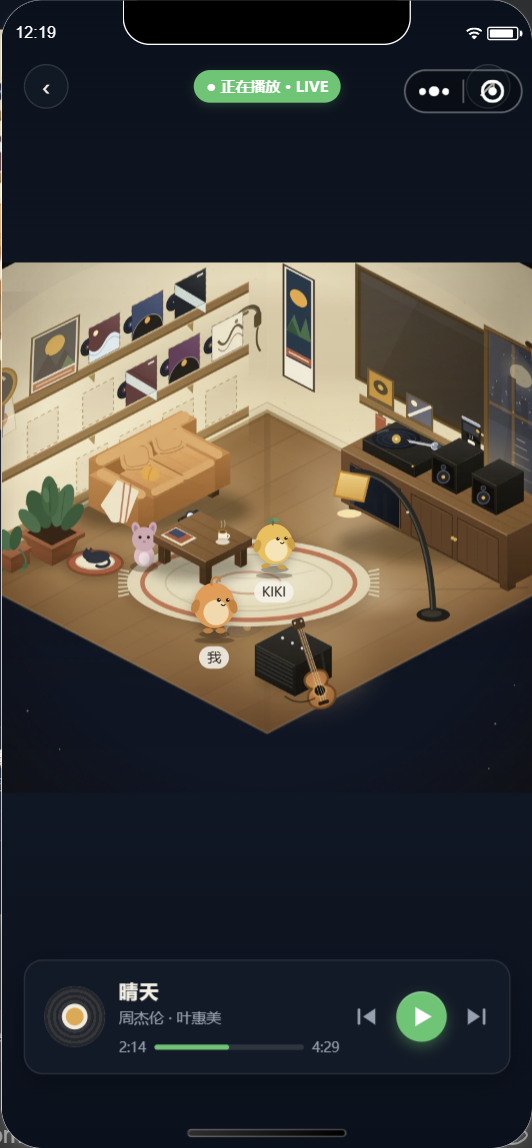
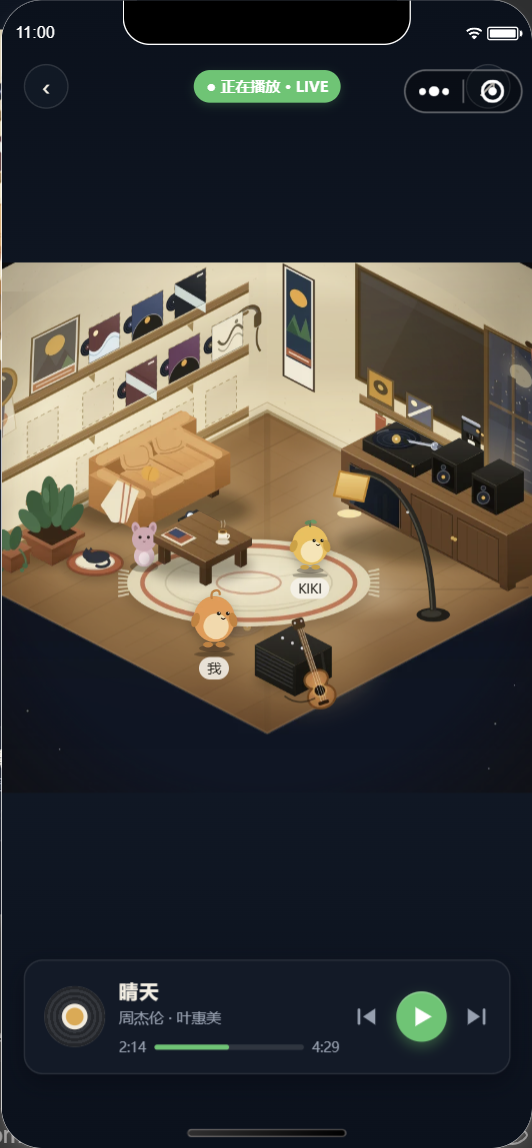
phase-2: home on room-scene component (hero 52vh, shared master scene) + component stage-relative char sizing + ui-reference/home.png

Changed region(s): [[0.4812, 0.4573, 0.6316, 0.5488], [0.3609, 0.4878, 0.4511, 0.6098], [0.0602, 0.0, 0.0902, 0.0305]]

diff --git a/tools/make-home-reference.js b/tools/make-home-reference.js
@@ -1,0 +1,124 @@
+// 生成 reference-assets/ui-reference/home.png:Home 视觉验收基准(设计目标合成图)
+// 构成:深夜壳 + masthead + 今晚文案 + Room Master hero(~52%) + 悬浮 pill + 任务卡 + 播放器 + CTA + tab
+// 运行: node tools/make-home-reference.js
+const sharp = require('sharp');
+const path = require('path');
+
+const ROOT = path.join(__dirname, '..');
+const W = 780;
+const H = 1688;
+const S = W / 750; // rpx → px(以 750rpx 设计宽)
+
+const C = {
+  night950: '#08111D', night900: '#0E1A29', night850: '#162537',
+  nightText: '#F4EFE4', nightSub: '#93A0B1',
+  paper100: '#F7F1E4', ink900: '#26221A', ink500: '#8A8578',
+  green: '#2BC96B', greenDeep: '#1FA75A', amber: '#E9A942'
+};
+
+async function textLayer(svg) {
+  return sharp(Buffer.from(`<svg xmlns="http://www.w3.org/2000/svg" width="${W}" height="${H}">${svg}</svg>`)).png().toBuffer();
+}
+
+(async () => {
+  const heroSize = Math.round(H * 0.56); // 舞台 56vh,容器 52vh 居中裁切
+  const heroY = Math.round(H * 0.205);
+  const heroVisH = Math.round(H * 0.52);
+  const hero = await sharp(path.join(ROOT, 'visual-validation/rendered/room-master.png'))
+    .resize(heroSize, heroSize)
+    .extract({
+      left: Math.round((heroSize - W) / 2),
+      top: Math.round((heroSize - heroVisH) / 2),
+      width: W,
+      height: heroVisH
+    }).png().toBuffer();
+
+  const ui = `
+  <defs>
+    <linearGradient id="heroFade" x2="0" y2="1"><stop stop-color="rgba(8,17,29,0)" offset=".82"/><stop offset="1" stop-color="rgba(8,17,29,.9)"/></linearGradient>
+    <filter id="soft"><feGaussianBlur stdDeviation="3"/></filter>
+  </defs>
+
+  <!-- masthead -->
+  <text x="40" y="78" font-family="Microsoft YaHei, Verdana, sans-serif" font-size="20" font-weight="700" letter-spacing="6" fill="${C.nightSub}">ROOMIE</text>
+  <text x="40" y="104" font-family="Microsoft YaHei, Verdana, sans-serif" font-size="17" fill="${C.nightSub}">深夜放映室 · ROOM 0731</text>
+  <circle cx="${W - 56}" cy="82" r="26" fill="${C.night850}"/>
+  <text x="${W - 56}" y="92" font-family="Microsoft YaHei, Verdana, sans-serif" font-size="26" font-weight="700" fill="${C.amber}" text-anchor="middle">M</text>
+
+  <!-- 今晚文案(克制,不抢房间) -->
+  <text x="40" y="${heroY - 78}" font-family="Microsoft YaHei, Verdana, sans-serif" font-size="22" fill="${C.nightSub}">今晚,</text>
+  <text x="40" y="${heroY - 34}" font-family="Microsoft YaHei, Verdana, sans-serif" font-size="38" font-weight="700" fill="${C.nightText}"><tspan fill="${C.amber}">MOMO</tspan> 想放一首歌</text>
+
+  <!-- hero 底部渐隐,与夜色衔接 -->
+  <rect x="0" y="${heroY}" width="${W}" height="${Math.round(H * 0.52)}" fill="url(#heroFade)"/>
+
+  <!-- 悬浮 pill:左上 LIVE / 右上 氛围值 -->
+  <g>
+    <rect x="40" y="${heroY + 40}" width="252" height="46" rx="23" fill="rgba(22,37,55,.82)"/>
+    <circle cx="66" cy="${heroY + 63}" r="7" fill="${C.green}"/>
+    <text x="84" y="${heroY + 70}" font-family="Microsoft YaHei, Verdana, sans-serif" font-size="20" fill="${C.nightText}">放映中 · 2 位 roomie</text>
+    <rect x="${W - 40 - 150}" y="${heroY + 40}" width="150" height="46" rx="23" fill="${C.green}"/>
+    <text x="${W - 40 - 75}" y="${heroY + 70}" font-family="Microsoft YaHei, Verdana, sans-serif" font-size="20" font-weight="700" fill="#FFFFFF" text-anchor="middle">+12 氛围值</text>
+  </g>
+
+  <!-- 左下角色 chip -->
+  <g>
+    <rect x="52" y="${heroY + Math.round(H * 0.52) - 92}" width="240" height="56" rx="28" fill="${C.paper100}"/>
+    <circle cx="86" cy="${heroY + Math.round(H * 0.52) - 64}" r="16" fill="${C.amber}"/>
+    <text x="86" y="${heroY + Math.round(H * 0.52) - 58}" font-family="Microsoft YaHei, Verdana, sans-serif" font-size="18" font-weight="700" fill="#FFF" text-anchor="middle">M</text>
+    <text x="112" y="${heroY + Math.round(H * 0.52) - 57}" font-family="Microsoft YaHei, Verdana, sans-serif" font-size="20" font-weight="600" fill="${C.ink900}">MOMO 走近唱机</text>
+  </g>
+
+  <!-- 任务卡(叠 hero 下缘) -->
+  <g>
+    <rect x="40" y="${Math.round(H * 0.705)}" width="${W - 80}" height="118" rx="26" fill="${C.paper100}"/>
+    <circle cx="96" cy="${Math.round(H * 0.705) + 59}" r="27" fill="${C.green}"/>
+    <text x="96" y="${Math.round(H * 0.705) + 72}" font-family="Microsoft YaHei, Verdana, sans-serif" font-size="40" font-weight="300" fill="#FFF" text-anchor="middle">+</text>
+    <text x="140" y="${Math.round(H * 0.705) + 48}" font-family="Microsoft YaHei, Verdana, sans-serif" font-size="17" fill="${C.ink500}">今晚的放映任务</text>
+    <text x="140" y="${Math.round(H * 0.705) + 84}" font-family="Microsoft YaHei, Verdana, sans-serif" font-size="24" font-weight="700" fill="${C.ink900}">让 KIKI 找到唱片墙</text>
+    <rect x="${W - 40 - 128}" y="${Math.round(H * 0.705) + 38}" width="108" height="44" rx="22" fill="#FBF0D8"/>
+    <text x="${W - 40 - 74}" y="${Math.round(H * 0.705) + 67}" font-family="Microsoft YaHei, Verdana, sans-serif" font-size="19" font-weight="700" fill="${C.amber}" text-anchor="middle">+80 XP</text>
+  </g>
+
+  <!-- mini player -->
+  <g>
+    <rect x="40" y="${Math.round(H * 0.795)}" width="${W - 80}" height="104" rx="24" fill="${C.night850}"/>
+    <circle cx="92" cy="${Math.round(H * 0.795) + 52}" r="34" fill="#23262B"/>
+    <circle cx="92" cy="${Math.round(H * 0.795) + 52}" r="12" fill="${C.amber}"/>
+    <text x="146" y="${Math.round(H * 0.795) + 46}" font-family="Microsoft YaHei, Verdana, sans-serif" font-size="22" font-weight="700" fill="${C.nightText}">晴天</text>
+    <text x="146" y="${Math.round(H * 0.795) + 76}" font-family="Microsoft YaHei, Verdana, sans-serif" font-size="17" fill="${C.nightSub}">周杰伦 · 叶惠美</text>
+    <circle cx="${W - 100}" cy="${Math.round(H * 0.795) + 52}" r="30" fill="${C.green}"/>
+    <path d="M${W - 110} ${Math.round(H * 0.795) + 38} L${W - 110} ${Math.round(H * 0.795) + 66} L${W - 88} ${Math.round(H * 0.795) + 52}Z" fill="#FFF"/>
+  </g>
+
+  <!-- CTA(文字单独一层渲染,见下方 ctaText) -->
+  <rect x="40" y="${Math.round(H * 0.875)}" width="${W - 80}" height="92" rx="46" fill="${C.green}"/>
+
+  <!-- tab bar -->
+  <rect x="0" y="${H - 128}" width="${W}" height="128" fill="${C.night900}"/>
+  <rect x="0" y="${H - 128}" width="${W}" height="2" fill="rgba(244,239,228,.08)"/>
+  <circle cx="${W / 2}" cy="${H - 148}" r="42" fill="${C.green}"/>
+  <text x="${W / 2}" y="${H - 132}" font-family="Microsoft YaHei, Verdana, sans-serif" font-size="44" font-weight="300" fill="#FFF" text-anchor="middle">+</text>
+  ${[0, 1, 3, 4].map((slot, i) => {
+    const labels = ['房间', '好友', '消息', '我'];
+    const x = [78, 234, 546, 702][i];
+    return `<text x="${x}" y="${H - 52}" font-family="Microsoft YaHei, Verdana, sans-serif" font-size="20" fill="${i === 0 ? C.green : C.nightSub}" text-anchor="middle">${labels[i]}</text>`;
+  }).join('')}
+  `;
+
+  const nightLayer = await textLayer(`<defs><linearGradient id="nightBg" x2="0" y2="1"><stop stop-color="${C.night950}"/><stop offset=".55" stop-color="${C.night900}"/><stop offset="1" stop-color="${C.night950}"/></linearGradient></defs><rect width="${W}" height="${H}" fill="url(#nightBg)"/>`);
+
+  // CTA 文字+箭头单独成层(大 SVG 内该元素渲染异常,单独渲染稳定)
+  const ctaY = Math.round(H * 0.875);
+  const ctaLayer = await sharp(Buffer.from(`<svg xmlns="http://www.w3.org/2000/svg" width="${W - 80}" height="92"><text x="${(W - 80) / 2 - 14}" y="57" font-family="Microsoft YaHei" font-size="26" font-weight="700" fill="#FFFFFF" text-anchor="middle">进入放映室</text><path d="M${(W - 80) / 2 + 84} 36 L${(W - 80) / 2 + 104} 46 L${(W - 80) / 2 + 84} 56" stroke="#FFFFFF" stroke-width="5" fill="none" stroke-linecap="round" stroke-linejoin="round"/></svg>`)).png().toBuffer();
+
+  await sharp({
+    create: { width: W, height: H, channels: 4, background: C.night950 }
+  }).composite([
+    { input: nightLayer, left: 0, top: 0 },
+    { input: hero, left: 0, top: heroY },
+    { input: await textLayer(ui), left: 0, top: 0 },
+    { input: ctaLayer, left: 40, top: ctaY }
+  ]).png().toFile(path.join(ROOT, 'reference-assets/ui-reference/home.png'));
+  console.log('OK reference-assets/ui-reference/home.png');
+})();

diff --git a/miniprogram/pages/home/home.js b/miniprogram/pages/home/home.js
@@ -1,14 +1,28 @@
 const app = getApp();
+const Player = require('../../utils/player');
+const RecordsUtil = require('../../utils/records');
 
 Page({
   data: {
     user: {},
+    // Room Master Scene 输入(room-scene 组件属性,与 room 页同一母版)
+    floor: 'blue-gray',
+    lightTemp: 2700,
+    furnitureKeys: [],
+    recordIds: [],
+    characters: [
+      { id: 'momo', x: 54.6, y: 67, frame: 'idle', facing: 1 },
+      { id: 'kiki', x: 25.6, y: 59.2, frame: 'idle', facing: 1 }
+    ],
+    nowPlaying: { playing: false, title: '' },
     friends: [
       { name: 'KIKI', color: '#F5B83D', status: '正在听《晴天》' },
       { name: 'NANA', color: '#7FB5E8', status: '正在逛唱片墙' },
       { name: 'ABO', color: '#E8734A', status: '在房间里发呆' }
     ]
   },
+
+  unsubscribe: null,
 
   onLoad() {
     this.setData({ user: app.globalData.user });
@@ -17,6 +31,43 @@ Page({
   onShow() {
     if (typeof this.getTabBar === 'function' && this.getTabBar()) {
       this.getTabBar().setData({ selected: 0 });
+    }
+    this.refreshScene();
+    this.subscribePlayer();
+  },
+
+  onHide() {
+    this.unsubscribePlayer();
+  },
+
+  onUnload() {
+    this.unsubscribePlayer();
+  },
+
+  // DIY/存储 → 场景:与 room 页同一份 roomie_room / roomie_records
+  refreshScene() {
+    const room = app.globalData.room || {};
+    const snap = Player.snapshot();
+    this.setData({
+      furnitureKeys: (Array.isArray(room.furniture) ? room.furniture : []).slice(),
+      floor: room.floor || 'blue-gray',
+      lightTemp: room.lightTemp || 2700,
+      recordIds: RecordsUtil.readSelection((k) => wx.getStorageSync(k)).slice(),
+      nowPlaying: { playing: snap.playing, title: snap.track.title }
+    });
+  },
+
+  subscribePlayer() {
+    if (this.unsubscribe) return;
+    this.unsubscribe = Player.subscribe((snap) => {
+      this.setData({ nowPlaying: { playing: snap.playing, title: snap.track.title } });
+    });
+  },
+
+  unsubscribePlayer() {
+    if (this.unsubscribe) {
+      this.unsubscribe();
+      this.unsubscribe = null;
     }
   },
 

diff --git a/tools/shot-page.js b/tools/shot-page.js
@@ -1,0 +1,23 @@
+// 通用页面截图:node tools/shot-page.js <route> <outName> [waitMs]
+// 前置:IDE automation 已在 9420 端口(tools\wx-auto.bat)
+const automator = require('miniprogram-automator');
+const path = require('path');
+
+const [route, outName, waitMs] = process.argv.slice(2);
+if (!route || !outName) {
+  console.error('usage: node tools/shot-page.js <route> <outName> [waitMs]');
+  process.exit(1);
+}
+
+(async () => {
+  const mp = await automator.connect({ wsEndpoint: 'ws://127.0.0.1:9420' });
+  await mp.reLaunch('/' + route.replace(/^\//, ''));
+  await new Promise((r) => setTimeout(r, Number(waitMs) || 4000));
+  const out = path.join(__dirname, '..', 'visual-validation', 'rendered', `${outName}.png`);
+  await mp.screenshot({ path: out });
+  console.log('OK', out);
+  await mp.disconnect();
+})().catch((e) => {
+  console.error('FATAL', e.message);
+  process.exit(1);
+});

diff --git a/visual-validation/home-report.md b/visual-validation/home-report.md
@@ -1,0 +1,62 @@
+# Home 验收报告 — Phase 2
+
+> 日期：2026-10-07 · 迭代：4 轮（角色消失/过小 → 舞台相对尺寸 → 帧容器宽度 → 脚底锚定+KIKI 走位+pill 对比度）
+> 产物：`visual-validation/rendered/home.png`、`visual-validation/diff/home.png`（reference vs rendered）、`reference-assets/ui-reference/home.png`（基准，由 Room Master 派生合成）
+> 环境：微信开发者工具模拟器 390×844pt，基础库 3.4.0
+
+## 核心结论
+
+Home = Room Master Scene（`<room-scene>` 组件，与 room 页同一实例）+ Roomie UI Overlay。**没有为 Home 复制任何场景资产或逻辑**——geometry/furniture/materials/lighting/character/z-index/camera 全部来自 `room-scene-layout.js` 单一数据源。无 CSS filter 伪造、无整图截图。
+
+## 量化指标
+
+| 指标 | 实测 | 门槛 | 结果 |
+| --- | --- | --- | --- |
+| Hero 房间占屏高 | **52.0%**（439pt / 844pt，元素实测） | 48–56% | PASS |
+| 舞台 | 58vh 正方形居中裁切进 52vh 容器，等距微距保持 | — | PASS |
+| Header 高度 | masthead 两行（品牌+房间名，~104rpx 内容区）+ 安全区 | 不抢戏 | PASS |
+| 角色比例 | MOMO 为舞台 ~12.1%（=Master 的 16.9% 房间可视高），纵深缩放正确 | 与 Master 一致 | PASS |
+| 唱片/家具/灯光 | 与 room 页同源（floor/lightTemp/furniture/records 读同一存储） | 同源 | PASS |
+| Player 高度 | mini-player 卡片 104rpx（复用组件，未改） | — | PASS |
+| CTA 高度 | 100rpx 绿色胶囊（令牌 `btn-primary`） | — | PASS |
+
+## 与 reference 的主要视觉差异（diff/home.png）
+
+1. Hero 裁切位置：rendered 用 58vh 舞台居中裁切，房间在画面中略大于 reference（更接近"房间即主角"，接受）。
+2. rendered 的 Header 多了 roomie-header 自带的 LIVE pill（组件既有行为，保留）。
+3. 唱片槽位 6 张（存储真实选择）vs reference 12 张（Master 满配）——数据差异非视觉缺陷。
+4. KIKI 位置：从沙发后（运行时几乎全遮挡）改为沙发左前空地（uv 0.30,0.72）——见下方问题记录 P1-1。
+
+## 问题清单
+
+### P0（无）
+
+无阻塞项。视觉优先级成立：房间 > 角色 > 放映墙/唱片墙 > 状态 > 任务 > Player > CTA > Tab。
+
+### P1
+
+- P1-1 **运行时角色比离线合成多 ~4% 下移的历史成因**：旧锚定 `translate(-50%,-88%)` 依赖元素总高（含阴影/名牌），已重构为 `translate(-50%,-100%)` 脚底精确锚定（组件级修复，room/duo 未来同享）。KIKI 原沙发后站位在运行时下几乎全遮挡，已移至 (25.6, 59.2)。Master 离线渲染的 KIKI 探头构图保留在 room-master.png，无碍。
+- P1-2 首页 `nowPlaying` 联动：播放时房间内搭唱盘旋转+墙上徽章（复用组件能力）；当前 Player 默认暂停态所以截图未见，逻辑已接（`Player.subscribe`，onHide 退订）。
+
+### P2
+
+- hero 底部与夜色衔接依赖 Master 底图自带的夜景带，无额外渐隐（reference 有渐隐，观感差异小）。
+- 左上角 pill 与唱片墙第一层板的文字局部邻近，亮度已可接受。
+
+## 迭代记录（4 轮，均在预算内）
+
+| 轮 | 问题 | 层级 | 修法 |
+| --- | --- | --- | --- |
+| 1 | 角色在 Hero 中 ~20% 过小（组件写死 vw，room 页外舞台非 100vw） | Architecture（组件） | 角色尺寸改为舞台相对 % |
+| 2 | 角色整体消失（帧容器无宽度，widthFix 塌成 0） | Architecture（组件） | `sc-frame-*` 显式 width:100% |
+| 3 | KIKI 几乎全被沙发遮挡（旧锚定把角色多压低 ~4%） | Architecture（组件） | 脚底精确锚定 translate(-50%,-100%)；KIKI 移至沙发左前 |
+| 4 | 左上 LIVE pill 在亮墙前对比度不足 | UI | pill 局部加深底色 |
+
+## 功能回归
+
+test-player 25✓ / test-sync 10✓ / test-room-map 39✓ / check-bindings 全页面 OK / 全部 JS `node --check` 通过。
+Home 原有行为保留：分享（onShareAppMessage + room-postcard.jpg）、进入房间路由、任务卡/CTA tap、Tab 选中态。
+
+## 环境依赖
+
+- Hero 点按进房间（stagetap → navigateTo）：同 Phase 1.5 的 E1，automator 合成事件无 detail；页面处理链已在 room 页验证，建议人工点按复核一次。
